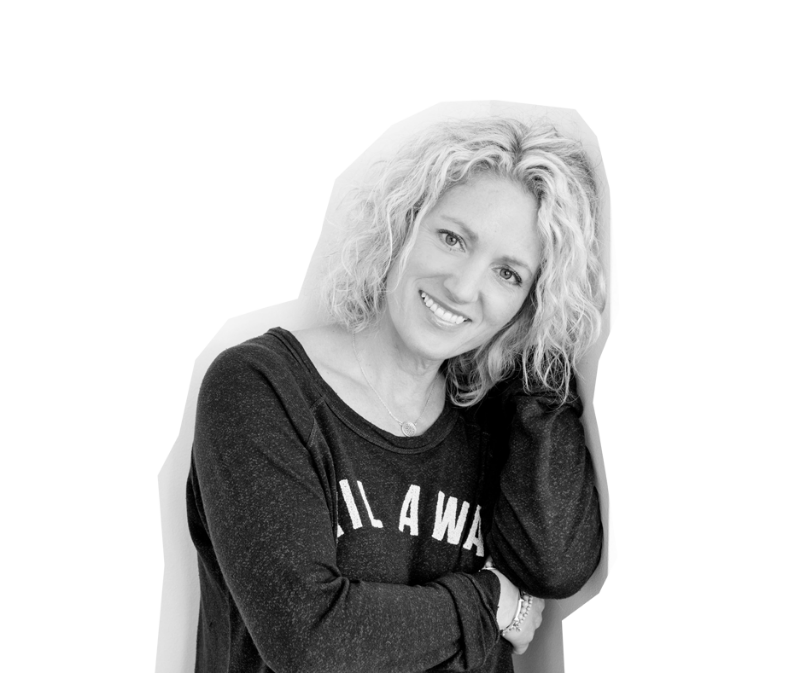
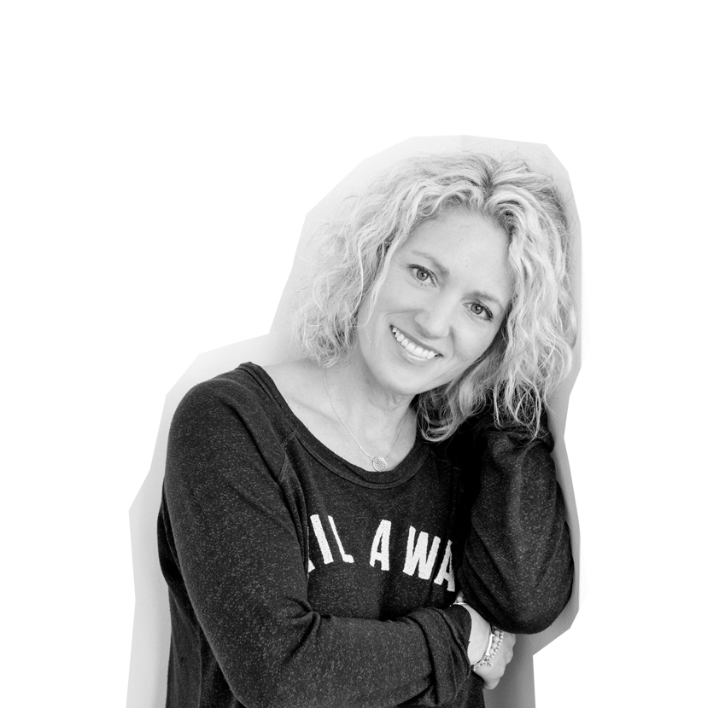
Update About Page Content
Updated copy and images for About page.

diff --git a/src/pages/about/index.md b/src/pages/about/index.md
@@ -1,62 +1,50 @@
 ---
 templateKey: about-page
-title: About
-about_intro: >-
-  When we started Gel 15 years ago, we knew the type of agency we wanted to
-  create. One that nurtures relationships, fosters creativity, innovates
-  constantly, balances fun with profit and makes time for an "a-pint-ment" or
-  two along the way. It’s our team of strategists, marketers, designers, and
-  developers who breathe the creative intelligence into our campaigns. 
+title: Let's Gel
+about_intro1: >
+  Are we the right agency for you? We value long term relationships. We embody creativity. We balance fun with profit and we make time for an “a-pint-ment” or two along the way. 20 years later, we’re still gelling.
+about_intro2: >
+  Our approach to marketing is our own—it’s grounded in Creative Intelligence. This means starting every project with strategy, regardless of scope, before we discuss tactics.
+about_intro3: >
+  It also means that we aren’t afraid to ask the tough questions. We challenge you. We test your assumptions and sometimes take the contrarian view. We do this to fully understand your marketing challenge and diagnose the root cause in order to design the best solution. 
 main:
-  shannon:
-    image2:
-      alt: Shannon Ambeau
-      image: /img/shannon-ambeau-headshot-1.jpg
-    shannon_bio: >-
-      After 20 years of corporate sales and marketing in the pharmaceutical
-      sector, Shannon decided to step out. Leaving at the top of her game,
-      having been part of the marketing team that launched the most successful
-      product in industry history, Shannon Ambeau joined Gel as the strategy
-      partner. She holds an MBA from the Schulich School of Business, a BSc in
-      Kinesiology from the University of Waterloo and is faculty at the Georgian
-      College Business and Management School. Shannon’s a blogger, writing about
-      life, love, and tacos on the weekly. 
   tom:
     image1:
       alt: Tom Ambeau
-      image: /img/tom-ambeau-headshot.jpg
+      image: /img/about/about-tom.png
     tom_bio: >
-      Tom Ambeau is Gel's founder and managing partner. He is the source of the
-      creative intelligence here. He’s the main reason our clients choose to
-      work with us. He just gets it. He’s been an entrepreneur for over 25
-      years. He co-launched a startup, took it public, got squeezed out, bought
-      an agency, and the beat goes on. Tom holds a BA in Political Science from
-      the University of Western Ontario. He has public company Board experience
-      as well as volunteer Board experience with the Downtown Barrie BIA. Tom’s
-      that guy who plays any sport well, has mastered freelance cooking, and
-      anyone who knows him knows he’s a die hard Leafs fan.  
-approach:
-  heading: Our Approach
-  text: >-
-    Our approach to marketing is different. It’s grounded in Creative
-    Intelligence. This means beginning every project, regardless of scope, with
-    a strategy discussion before we think about crafting solutions. We challenge
-    you. We get to the root cause of your pain. We aren’t afraid to test your
-    assumptions, to ask the tough questions and at times, to be the contrarian.
-    This allows us to build better brands.
-
-
-    Whether we’re helping you discover or refine your story, unlock untapped
-    value in your brand to grow your business or trying new methods of
-    communication to deepen the connection with your audience, we partner with
-    you throughout the process so that we get it right.
-
-
-    We invite you to explore our work, discover our culture and connect with our
-    story.
-services:
-  - strategy
-  - branding
-  - marketing
+      I’ve had my share of good fortune in business
+      over the past 30 years—record-beating
+      quarters, successful product launches,
+      shattering a fundraising milestone, and the
+      thrill of taking a company public. They say
+      that fortune (I don’t believe in luck) is where
+      hard work and opportunity meet. I’ve also had
+      some challenges in business. And so I should.
+      That’s undeniably part of the growth equation.
+      The Creative Intelligence I share with our
+      clients is the sum of these parts.
+    tom_website: https://www.gelagency.com/
+    tom_website_name: www.gelagency.com
+    tom_linkedin: https://www.linkedin.com/in/tom-ambeau-a257a412/
+  shannon:
+    image2:
+      alt: Shannon Ambeau
+      image: /img/about/about-shannon.png
+    shannon_bio: >
+      I left a 20 year corporate sales and
+      marketing career with multinationals to join
+      Gel and become a partner in my own agency.
+      While in corporate, I earned an MBA from
+      the Schulich School of Business. As the
+      strategy lead, I leverage my corporate
+      experience and business education in all our
+      client engagements. I teach Marketing and
+      PR at Georgian College and I’m a writer.
+      You’ll find my writing on our blog and at
+    shannon_website: https://shannonambeau.com/
+    shannon_website_name: shannonambeau.com
+    shannon_linkedin: https://www.linkedin.com/in/shannonambeau/
+insta:
+  heading: Follow us on
 ---
-
